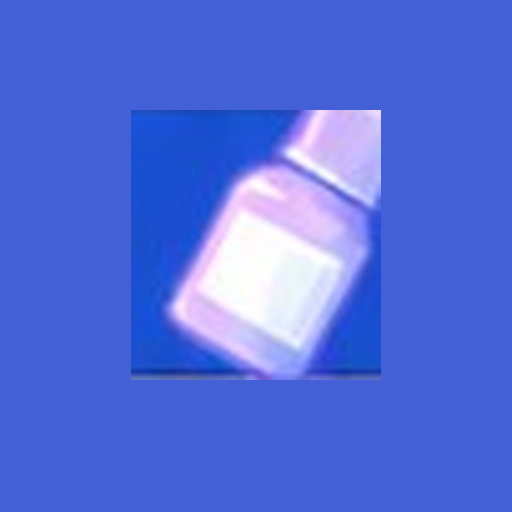
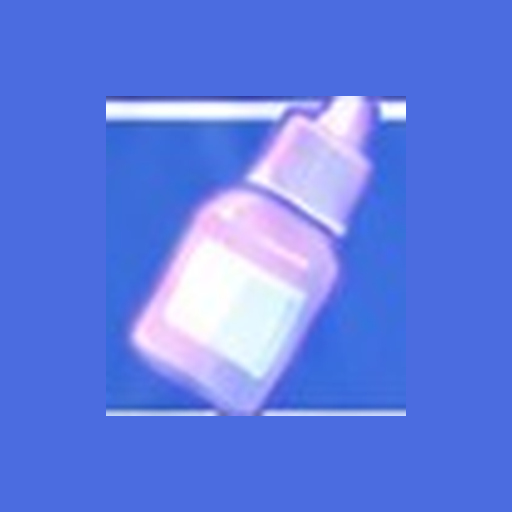
Add files via upload

Changed region(s): [[0.1875, 0.1875, 0.8125, 0.8125]]

diff --git a/index.html b/index.html
@@ -1,46 +1,70 @@
-<!doctype html>
-<html lang="ko">
-<head>
+<!doctype html><html lang="ko"><head>
 <meta charset="utf-8"><meta name="viewport" content="width=device-width,initial-scale=1">
-<meta name="theme-color" content="#3157d6"><link rel="manifest" href="manifest.webmanifest">
+<meta name="theme-color" content="#5878e8"><link rel="manifest" href="manifest.webmanifest">
 <title>자기 전 안약 체크</title>
 <style>
-:root{--blue:#3158e8;--ink:#171b42;--line:#e2e1ef;--lav:#e9e4ff}
-*{box-sizing:border-box}html,body{margin:0;min-height:100%;font-family:system-ui,-apple-system,"Noto Sans KR",sans-serif;color:var(--ink)}
-body{background:#78b9ff url("background.jpg") center/cover fixed no-repeat;padding:12.3vh 0 7vh}
-.app{width:min(90.5vw,782px);margin:0 auto}
-.titlebar{height:70px;border:1.5px solid #4964cf;background:#496ce0;display:flex;align-items:center;justify-content:space-between;padding:0 8px 0 13px;color:#fff}
-.brand{display:flex;align-items:center;gap:9px;font-size:clamp(18px,3.1vw,25px);font-weight:560;letter-spacing:-.3px}.brand img{width:48px;height:55px;object-fit:contain}.moon{font-size:1em}
-.wincontrols{display:flex;gap:4px}.wincontrols span{width:42px;height:39px;display:grid;place-items:center;background:#f7e8ff;border:1px solid #b9aee7;color:#171734;font-size:25px;line-height:1}
-.panel{margin:0;border:1.5px solid #a7a8df;border-radius:25px;background:rgba(253,252,255,.975);padding:21px 10px 15px;box-shadow:none}
-.head{display:grid;grid-template-columns:58px 1fr 58px;align-items:center;gap:10px;margin:0 10px 15px}
-.month{text-align:center;font-size:clamp(24px,4.3vw,34px);font-weight:680;letter-spacing:-1px}
-.nav{height:55px;border:1px solid #c9c3ee;border-radius:8px;background:#eee9ff;font-size:33px;color:#15183c;box-shadow:none}
-.week,.grid{display:grid;grid-template-columns:repeat(7,minmax(0,1fr));gap:6px}
-.week div{text-align:center;font-size:14px;font-weight:540;color:#555a7e;padding:6px 0 10px}.week div:first-child{color:#ed5e7d}.week div:last-child{color:#3159e8}
-.day{position:relative;min-height:128px;border:1px solid var(--line);border-radius:12px;background:rgba(252,251,255,.72);display:flex;align-items:center;justify-content:center;overflow:hidden;color:var(--ink);padding:0;box-shadow:none}
-.empty{visibility:hidden}.today{border:2px solid var(--blue);background:rgba(255,255,255,.82)}
-.content{position:relative;z-index:2;width:100%;height:100%;display:flex;flex-direction:column;align-items:center;justify-content:center;gap:5px;text-align:center}
-.num{font-size:17px;font-weight:560;line-height:1}.mark{font-size:12.5px;font-weight:520;color:#59639a;line-height:1;font-variant-numeric:tabular-nums}
-.doneCircle{position:absolute;z-index:0;width:min(74%,76px);aspect-ratio:1;border-radius:50%;left:50%;top:52%;transform:translate(-50%,-50%);background:rgba(224,217,255,.68)}
-.miniBottle{position:absolute;z-index:3;left:9px;top:9px;width:21px;height:27px;object-fit:contain}
-.missed{background:rgba(255,248,250,.8)}.missMark{font-size:28px;color:#d62f4b;font-weight:700;line-height:1}
-.legend{margin-top:17px;padding:12px 8px;border:1px solid #dedbed;border-radius:9px;background:rgba(249,247,255,.82);display:flex;justify-content:space-around;gap:5px;font-size:11px;font-weight:540;color:#4c5074}
-.legend span{display:flex;align-items:center;gap:5px}.lg{width:27px;height:27px;border-radius:50%;display:inline-grid;place-items:center}.lgd{background:rgba(224,217,255,.78)}.lgx{background:#ffc8d2;color:#c9233d;font-size:20px}.lgt{border:1.8px solid var(--blue);background:#fff}.lgn{border:1.5px solid #d8dae6;background:#fff}
-.hint{display:none}
-dialog{border:1px solid #6573cf;padding:0;width:min(88vw,370px);box-shadow:none}dialog::backdrop{background:#1c275c55}.modalTitle{background:#496ce0;color:#fff;font-weight:650;padding:9px 12px}.modalBody{padding:20px;text-align:center}.modalBody h2{margin:0 0 5px}.modalBody p{color:#686e91}.actions{display:grid;grid-template-columns:1fr 1fr;gap:9px;margin-top:14px}.btn{border:1px solid #cbc7e7;padding:12px;font-weight:650;background:#f1eff8}.yes{background:#e5e0ff}.timeBox{display:none;margin-top:13px;text-align:left}.timeBox label{display:block;font-size:12px;color:#666d90;margin-bottom:6px}.timeBox input{width:100%;padding:11px;font:inherit}.small{font-size:10px;color:#969bb1;margin-top:6px}
-@media(max-width:500px){
- body{padding:12.3vh 0 5vh}.app{width:90.5vw}.titlebar{height:55px}.brand{font-size:17px}.brand img{width:37px;height:43px}.wincontrols span{width:34px;height:31px;font-size:21px}
- .panel{padding:17px 7px 12px;border-radius:21px}.head{grid-template-columns:48px 1fr 48px;margin:0 8px 12px}.nav{height:46px;font-size:28px}.month{font-size:25px}
- .week,.grid{gap:4px}.week div{font-size:11.5px}.day{min-height:96px;border-radius:10px}.num{font-size:15px}.mark{font-size:10.8px}.doneCircle{width:min(72%,62px)}.miniBottle{width:18px;height:23px;left:5px;top:6px}
- .legend{font-size:9px;padding:9px 4px}.lg{width:22px;height:22px}
+:root{--ink:#151a42;--blue:#365df0;--line:#e5e4f1;--purple:#e5dfff}
+*{box-sizing:border-box}
+html,body{margin:0;min-height:100%;font-family:system-ui,-apple-system,"Noto Sans KR",sans-serif;color:var(--ink)}
+body{background:#7dbaff url("background.jpg") center/cover fixed no-repeat;padding:12.3vh 0 7vh}
+.app{width:min(90.5vw,780px);margin:0 auto}
+.titleWrap{position:relative;width:100%;aspect-ratio:782/70}
+.titleImg{position:absolute;inset:0;width:100%;height:100%;display:block}
+.winHit{position:absolute;top:0;height:100%;background:transparent;border:0}
+.panel{
+  margin:0;border:1.5px solid #aeb0df;border-radius:25px;
+  background:rgba(253,252,255,.982);padding:25px 12px 15px;
+  box-shadow:none;
 }
-</style></head>
-<body><main class="app">
-<div class="titlebar">
-  <div class="brand"><img src="title-bottle.png" alt=""><span>자기 전 안약 체크</span><span class="moon">🌙</span></div>
-  <div class="wincontrols"><span>−</span><span>□</span><span>×</span></div>
-</div>
+.head{display:grid;grid-template-columns:62px 1fr 62px;align-items:center;gap:10px;margin:0 14px 20px}
+.month{text-align:center;font-size:clamp(24px,4.25vw,35px);font-weight:650;letter-spacing:-1px}
+.nav{
+  height:59px;border:1px solid #c8c2ed;border-radius:8px;background:#eee9ff;
+  color:#151a42;font-size:35px;font-weight:400;box-shadow:none
+}
+.week,.grid{display:grid;grid-template-columns:repeat(7,minmax(0,1fr));gap:7px}
+.week div{text-align:center;font-size:14px;font-weight:500;color:#555a7e;padding:5px 0 10px}
+.week div:first-child{color:#ed5d7d}.week div:last-child{color:#3159e8}
+.day{
+ position:relative;min-height:126px;border:1px solid #e3e2ef;border-radius:13px;
+ background:rgba(251,250,255,.68);display:flex;align-items:center;justify-content:center;
+ overflow:hidden;color:var(--ink);padding:0;box-shadow:none
+}
+.empty{visibility:hidden}
+.today{border:2px solid var(--blue);background:rgba(255,255,255,.78)}
+.content{position:relative;z-index:2;width:100%;height:100%;display:flex;flex-direction:column;align-items:center;justify-content:center;gap:6px;text-align:center}
+.num{font-size:17px;font-weight:560;line-height:1}
+.mark{font-size:12.5px;font-weight:520;color:#58649a;line-height:1;font-variant-numeric:tabular-nums}
+.doneCircle{
+ position:absolute;z-index:0;width:min(76%,78px);aspect-ratio:1;border-radius:50%;
+ left:50%;top:52%;transform:translate(-50%,-50%);background:rgba(226,219,255,.68)
+}
+.miniBottle{position:absolute;z-index:3;left:9px;top:9px;width:22px;height:28px;object-fit:contain}
+.missed{background:rgba(255,249,251,.78)}.missMark{font-size:29px;color:#d62e4a;font-weight:650;line-height:1}
+.legend{
+ margin-top:18px;padding:13px 9px;border:1px solid #dedbed;border-radius:9px;
+ background:rgba(248,246,255,.82);display:flex;justify-content:space-around;gap:5px;
+ font-size:11px;font-weight:520;color:#4c5074
+}
+.legend span{display:flex;align-items:center;gap:6px}.lg{width:28px;height:28px;border-radius:50%;display:inline-grid;place-items:center}
+.lgd{background:rgba(225,219,255,.8)}.lgx{background:#ffc8d2;color:#c9233d;font-size:20px}.lgt{border:1.8px solid var(--blue);background:#fff}.lgn{border:1.5px solid #d8dae6;background:#fff}
+.hint{display:none}
+dialog{border:1px solid #6675cf;padding:0;width:min(88vw,370px);box-shadow:none}
+dialog::backdrop{background:#1c275c55}.modalTitle{background:#5878e8;color:#fff;font-weight:650;padding:9px 12px}
+.modalBody{padding:20px;text-align:center}.modalBody h2{margin:0 0 5px}.modalBody p{color:#686e91}
+.actions{display:grid;grid-template-columns:1fr 1fr;gap:9px;margin-top:14px}.btn{border:1px solid #cbc7e7;padding:12px;font-weight:650;background:#f1eff8}.yes{background:#e5e0ff}
+.timeBox{display:none;margin-top:13px;text-align:left}.timeBox label{display:block;font-size:12px;color:#666d90;margin-bottom:6px}.timeBox input{width:100%;padding:11px;font:inherit}.small{font-size:10px;color:#969bb1;margin-top:6px}
+@media(max-width:500px){
+ body{padding:12.3vh 0 5vh}.app{width:90.5vw}
+ .panel{padding:19px 8px 12px;border-radius:21px}
+ .head{grid-template-columns:48px 1fr 48px;margin:0 10px 15px}.nav{height:48px;font-size:28px}.month{font-size:25px}
+ .week,.grid{gap:4px}.week div{font-size:11.5px}
+ .day{min-height:92px;border-radius:10px}.num{font-size:15px}.mark{font-size:10.7px}
+ .doneCircle{width:min(73%,63px)}.miniBottle{width:18px;height:23px;left:5px;top:6px}
+ .legend{font-size:9px;padding:10px 4px}.lg{width:23px;height:23px}
+}
+</style></head><body><main class="app">
+<div class="titleWrap"><img class="titleImg" src="titlebar.png" alt="자기 전 안약 체크"></div>
 <section class="panel">
 <div class="head"><button class="nav" id="prev">‹</button><div class="month" id="month"></div><button class="nav" id="next">›</button></div>
 <div class="week"><div>일</div><div>월</div><div>화</div><div>수</div><div>목</div><div>금</div><div>토</div></div>

diff --git a/sw.js b/sw.js
@@ -1,4 +1,4 @@
-const C="eybelis-v10-flat";const A=["./","./index.html","./manifest.webmanifest","./icon.png","./background.jpg","./title-bottle.png","./bottle-mini.png"];
+const C="eybelis-v11-exact";const A=["./","./index.html","./manifest.webmanifest","./icon.png","./background.jpg","./titlebar.png","./bottle-mini.png"];
 self.addEventListener("install",e=>{self.skipWaiting();e.waitUntil(caches.open(C).then(c=>c.addAll(A)))});
 self.addEventListener("activate",e=>e.waitUntil(caches.keys().then(k=>Promise.all(k.filter(x=>x!==C).map(x=>caches.delete(x)))).then(()=>self.clients.claim())));
 self.addEventListener("fetch",e=>{if(e.request.mode==="navigate"){e.respondWith(fetch(e.request).then(r=>{let x=r.clone();caches.open(C).then(c=>c.put(e.request,x));return r}).catch(()=>caches.match("./index.html")));return}e.respondWith(caches.match(e.request).then(r=>r||fetch(e.request)))})
